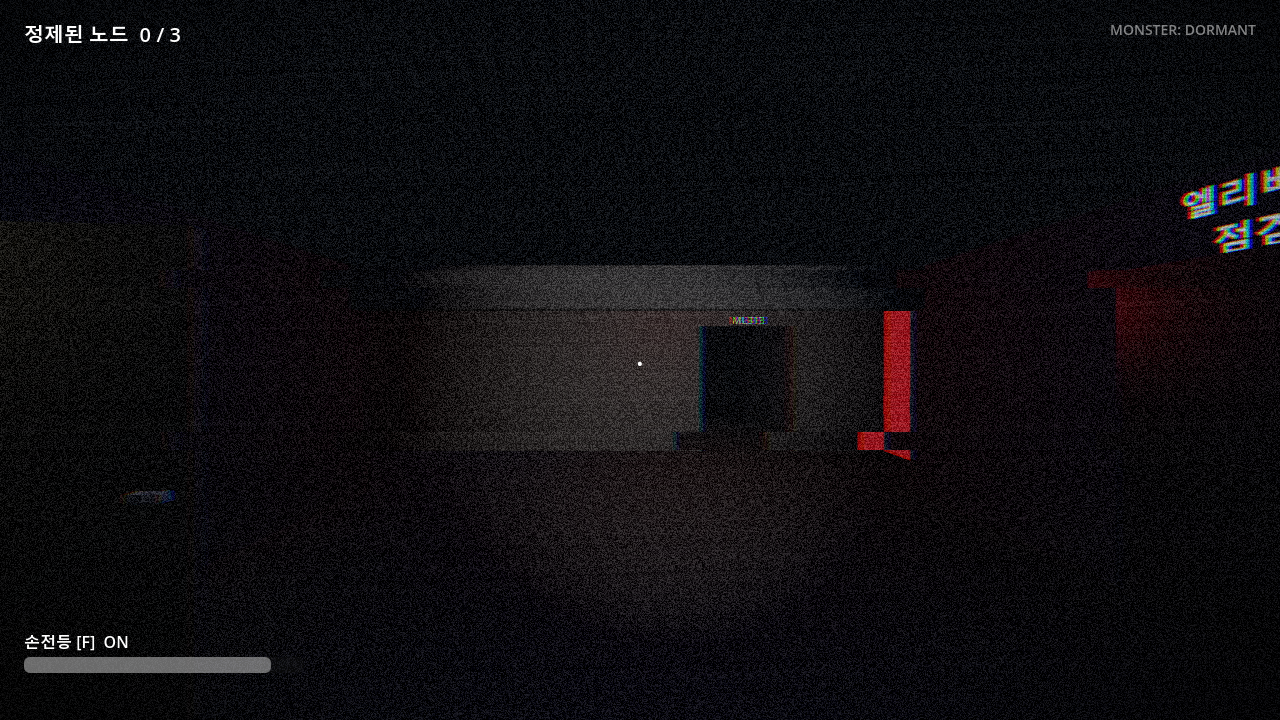
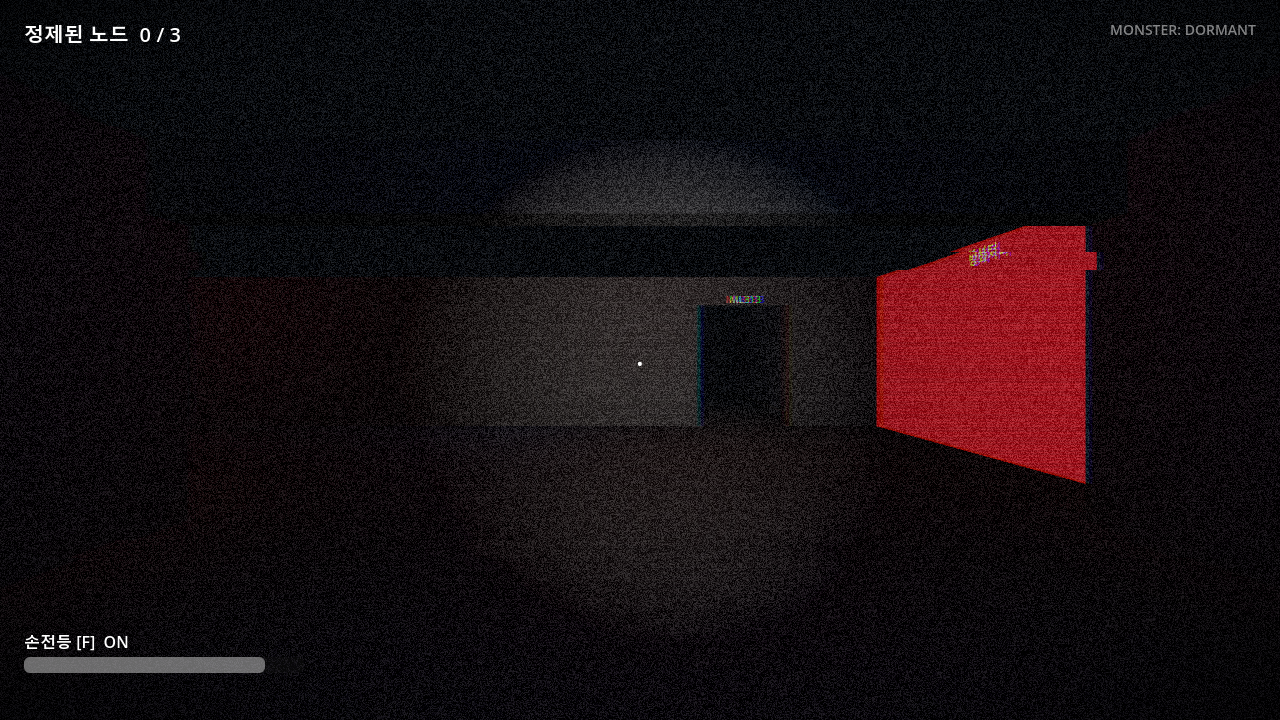
복도 폭 2배(5m), 플레이어 크기 75%로 축소
- 복도 안쪽 폭 2.5m → 5.0m, 사선 복도 4m → 8m. 방·로비·계단실·홀·학회실·터미널 좌표를 복도 폭에 맞춰 계산하도록 변경
- 플레이어: 캡슐 반지름 0.4 → 0.3, 키 1.8 → 1.35m, 눈높이 1.6 → 1.2m
- 스모크 테스트 3회 연속 66항목 PASS

Changed region(s): [[0.0, 0.0, 1.0, 1.0]]

diff --git a/README.md b/README.md
@@ -32,7 +32,7 @@ godot --path . res://scenes/smoke_test.tscn
 |---|---|
 | W A S D / 방향키 | 이동 |
 | Shift | 달리기 (발소리 소음 증가) |
-| 마우스 | 시선 |
+| 마우스 | 시선 (눈높이 1.2m, 몸 반지름 0.3m) |
 | F | 손전등 켜기/끄기 (배터리 소모·회복) |
 | E | 로비 문 열기 / 터미널 정제 시작 |
 | 0 / 1 | 미니게임 입력 |
@@ -101,7 +101,7 @@ DORMANT ──노드1 정제──▶ IDLE ──소음 들림──▶ INVESTIG
 스크립트가 `@tool` 이라 **에디터에서 `scenes/main.tscn` 을 열면 맵이 3D 뷰에 그대로 보인다.** 위에서 내려다보려면 3D 뷰에서 키패드 **7** (또는 뷰포트 좌상단 "원근" 메뉴 → 상단 뷰), 마우스 휠로 줌, 휠 클릭 드래그로 이동. `ROOMS` 등 숫자를 고쳐 저장하면 뷰가 다시 그려진다.
 
 **평면**은 미디어랩스 3층 손그림([`reference/measurements/3층_평면도_스케치.webp`](reference/measurements/3층_평면도_스케치.webp))을 따른다.
-**치수**는 Polycam 스캔 실측값: 복도 안쪽 폭 2.5m, 천장 2.7m ([`medialabs_scan_2026-11-24.md`](reference/measurements/medialabs_scan_2026-11-24.md)).
+**치수**: 천장 2.7m는 Polycam 스캔 실측값. 복도 안쪽 폭은 실측 2.5m의 2배인 **5m** (플레이 공간 확보) ([`medialabs_scan_2026-11-24.md`](reference/measurements/medialabs_scan_2026-11-24.md)).
 방 크기는 강의실(ML) 14 x 8m > 학회실 약 60m² > 교수연구실·회의실·랩실·서버실 6 x 6m.
 
 ![위에서 본 3층](docs/screenshots/floor3_top.png)
@@ -113,8 +113,8 @@ DORMANT ──노드1 정제──▶ IDLE ──소음 들림──▶ INVESTIG
             ───────────────────────────────────────────────┘          ╲
  아래쪽(z+): 회의 랩  [ML304]  서버 계단|로비|  랩    랩                 잔해(출입 금지)
                                T1   ▲P  엘베
- T1 서버실(33.7, 6.9)   T2 ML314 교탁(64.5, -5.4)   T3 학회실(79, -9.5)
- P 계단실 시작(38.6, 5.75), +x(로비 문)를 보고 시작   괴물 스폰(57, 0): 셔터1과 셔터2 사이
+ T1 서버실(33.7, 8.15)   T2 ML314 교탁(64.5, -6.65)   T3 학회실(79, -10.75)
+ P 계단실 시작(38.6, 7.0), +x(로비 문)를 보고 시작   괴물 스폰(57, 0): 셔터1과 셔터2 사이
  들어갈 수 있는 방: ML304, ML313, ML314, 서버실, 셔터1 옆 랩실, 학회실. 나머지는 잠긴 문.
 ```
 

diff --git a/reference/measurements/medialabs_scan_2026-11-24.md b/reference/measurements/medialabs_scan_2026-11-24.md
@@ -22,7 +22,7 @@
 | 항목 | 값 |
 |---|---|
 | 벽(천장) 높이 `WALL_H` | **2.7m** (스캔) |
-| 복도 안쪽 폭 | **2.5m** (스캔) |
+| 복도 안쪽 폭 | **5.0m** (실측 2.5m의 2배. 좁아서 플레이 공간을 위해 넓힘) |
 | 강의실 ML304·ML313·ML314 | **14 x 8m** (스캔한 실습실 7.5 x 14.5m 기준) |
 | 학회실 | 약 60m² 다각형 (강의실보다 작고 일반 방보다 큼) |
 | 교수연구실·회의실·랩실·서버실 | **6 x 6m** |
